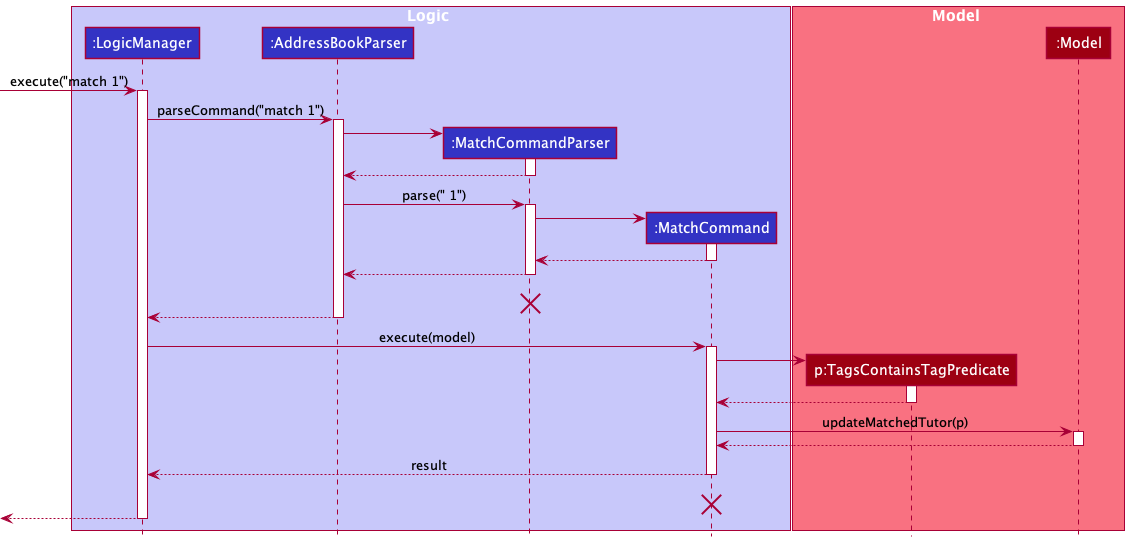
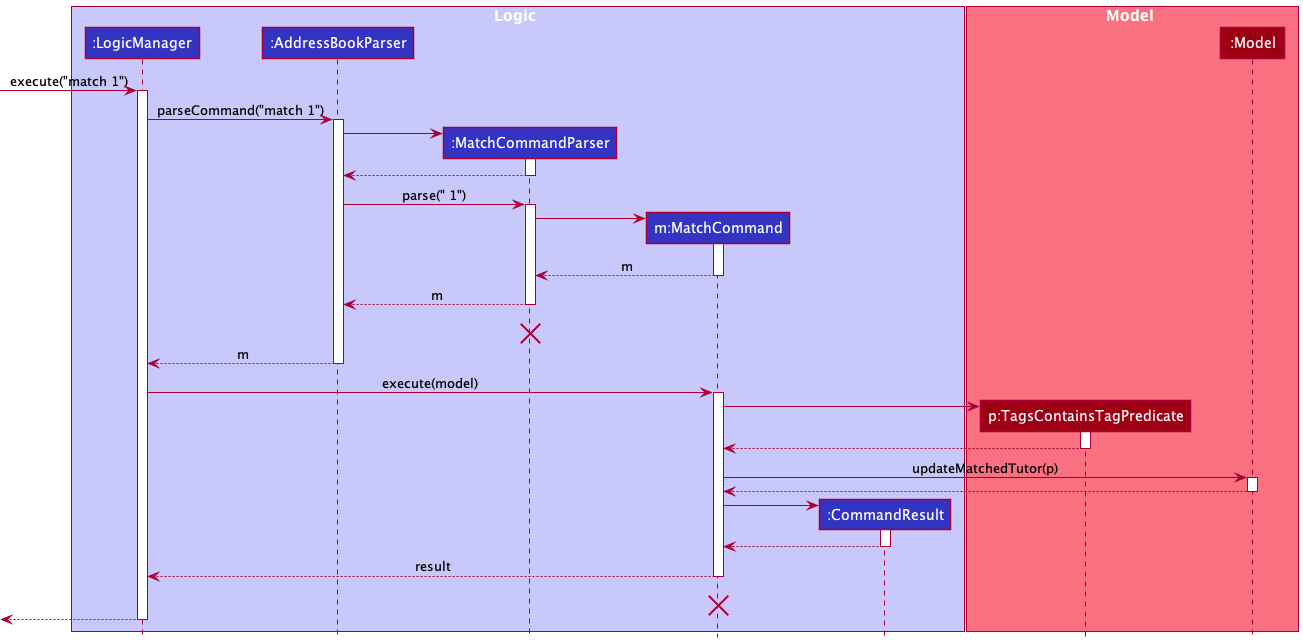
Update DG based on meeting

diff --git a/docs/DeveloperGuide.md b/docs/DeveloperGuide.md
@@ -383,34 +383,31 @@ Given below is an activity diagram to show how the `find` implementation works f
 
 #### What it is
 
-The Match feature involves taking a `Student` specified by the user through a `MatchCommand` (eg. `match 1`, matches the first student on `Student` list), and matches them to a `Tutor` who has one or more matching `Tag` with the `Student`. It automatically sorts the `matchedTutorList` according to the number of matching `Tag` that a `Tutor` has with the specified `Student`.
+The Match feature involves taking a student specified by the user and matching the student with tutors who have **one or more** matching tags with the identified student. It automatically sorts the `matchedTutorList` according to the number of matching tags that a tutor has with the student.
 
 #### Implementation details
-Upon the user's entry of the command, the validity of the user's input is checked. If the input is valid, a `MatchCommand` object is created. `MatchCommand` is a class that extends the `Command` abstract class, with `MatchCommand` implementing the `execute` method of the abstract `Command` class. Upon execution, the `Student` is identified via the index given by the user and a `TagsContainTagPredicate` object is created with the `tags` of the identified `Student`. This `TagsContainTagPredicate` object will be used to determine if the `tags` of the `Tutor` stored contains one or more `Tag` that the `Student` has. It will then update the `matchedTutorList` in the model with the filtered `Tutor` list. The `matchedTutorList` is then sorted such that `Tutor` with more matching `Tag` is at the front of the list.
+Upon the user's entry of the command, the validity of the user's input is checked. If the input is valid, a `MatchCommand` object is created. `MatchCommand` is a class that extends the `Command` abstract class, with `MatchCommand` implementing the `MatchCommand#execute`. Upon execution, the student is identified via the `INDEX` given by the user and a `TagsContainTagPredicate` object is created, which will be used to determine if the `tags` of the tutor contains one or more `Tag` that the student has. It will then update and sort the `matchedTutorList` such that the tutor with more matching `Tag` is at the front of the list.
 
 ##### Sequence of action
 {:.no_toc}
 Given below is an example valid usage scenario and how the `match` command implementation behaves at each step. 
 
-**Prerequisite**: There are `Students` in the student list and there are `Tutor` objects which have `tags` that the `Student` have (i.e. there are matches available for `Student`).
+**Prerequisite**: There are students in the student list and there are tutors which have `tags` that the student has (i.e. there are matches available for the student).
 
 Steps:
-1. The user executes `match 1` to match the first `Student` on the student list.
-2. `LogicManager` calls on `AddressBookParser#parseCommand` which in turns creates a new `MatchCommandParser` object.
+1. The user input `match 1` (i.e. match the first student on the student list) is passed to `LogicManager` to be executed.
+2. `LogicManager` calls on `AddressBookParser#parseCommand`, which creates a new `MatchCommandParser` object.
 3. The `MatchCommandParser` object calls `MatchCommandParser#parse` which will validate the user input and return a new `MatchCommand` if the input is valid.
 4. `LogicManager` will execute the `MatchCommand` through `MatchCommand#execute`, which will be responsible for matching the `Student`.
-5. `MatchCommand` will find the first `Student` in the student list and a `TagsContainTagPredicate` object is created.
+5. `MatchCommand` will find the first student in the student list and a `TagsContainTagPredicate` object is created.
 6. The `matchTutorList` in the `Model` will then be updated via `Model#updateMatchedTutor`.
-7. Lastly, a new `CommandResult` with the success message is returned to the `LogicManager` and the `Ui` is updated with the `matchTutorList`.
+7. Lastly, a new `CommandResult` with the success message is returned to the `LogicManager`.
 
-The following sequence diagram shows how the `match` command for the example above works:
+Given below is a sequence diagram to show how the `match` implementation works for a **valid** `match` input:
 
 ![MatchCommandSequenceDiagram](images/MatchCommandSequenceDiagram.png)
 
-<div markdown="span" class="alert alert-info"> :information_source: **Note:** The lifeline for `MatchCommandParser` and `MatchCommand` should end at the destroy marker (X) but due to a limitation of PlantUML, the lifeline reaches the end of diagram.
-</div>
-
-The following activity diagram summarizes what happens when a user executes a **valid** `match` command:
+Given below is an activity diagram to show how the `match` command works for a `match` input:
 
 ![MatchCommandActivityDiagram](images/MatchCommandActivityDiagram.png)
 
@@ -418,12 +415,12 @@ The following activity diagram summarizes what happens when a user executes a **
 
 ##### Aspect: How `match` is executed
 {:.no_toc}
-- **Alternative 1 (current choice)**: We made use of a `TagsContainTagPredicate` to help us find `Tutor` objects in the tutor list that has the `Tag` we are finding.
-    - Pros: Pros: By abstracting out the `Predicate`, the predicates can be used elsewhere or in other match commands.
-    - Cons: Extra layer of abstractions which may potentially introduce undesired bugs in the code.
-- **Alternative 2**: Directly filter the `matchedTutorList` in `MatchCommand#execute` without the use of predicate.
-    - Pros: Easier to understand the code for potential developers since the whole implementation is done within `MatchCommand`.
-    - Cons: There is a lack of abstraction. It would be harder to scale up the application as it becomes more complex.
+- **Alternative 1 (current choice)**: User can `match` students with multiple `tags` to tutors.
+    - Pros: It prevents the user from having to create one `Student` object for every subject that the student is looking for, which allows the database to store lesser unnecessary/duplicate information about the student.
+    - Cons: The code will become more complex as there is a need to create a `TagsContainTagPredicate` to assist in finding all the relevant matching tutors.
+- **Alternative 2**: User can `match` students with only one `Tag` to tutors.
+    - Pros: Simpler implementation which requires a less complex predicate, making it easier for developers to understand the code.
+    - Cons: Higher storage cost due to more `Student` objects being created if a specific student wants to learn multiple subjects as students are only limited to one `Tag`.
 
 --------------------------------------------------------------------------------------------------------------------
 ## **Documentation, logging, testing, configuration, dev-ops**
@@ -659,3 +656,7 @@ Priorities: High (must have) - `* * *`, Medium (nice to have) - `* *`, Low (unli
 | **Qualification** | How qualified the tutor is with regards to these levels:<br>0.Pre-University<br>1.University Student<br>2.Post-Grad<br>3.MOE-Trained              |
 | **Tag**           | Subjects each Tutor teaches are saved under tags as ``[X][Y]`` (X is Level code and Y is Specific Subject code). eg. `PM` stands for Primary Math.|
 | **Bloatware**     | Software that uses excessive memory and disk space, which makes the program run slow                                                              |
+--------------------------------------------------------------------------------------------------------------------
+## **Appendix: Instructions for Manual Testing**
+
+to be added...

diff --git a/docs/UserGuide.md b/docs/UserGuide.md
@@ -39,7 +39,7 @@ Before diving into the details, let us first look at what makes up a command:
 | Parameter    | Argument given directly behind prefix and contains the corresponding value |
 
 <div markdown="block" class="alert alert-info">
-<b>:information_source: There are **two** main `Person` type in `CLITutors`, namely `Tutor` and `Student`, represented by `t` and `s` in the preamble respectively. </b><br>
+<b>:information_source: </b>There are **two** main `Person` type in `CLITutors`, namely `Tutor` and `Student`, represented by `t` and `s` in the preamble respectively. <br>
 
 </div>
 
